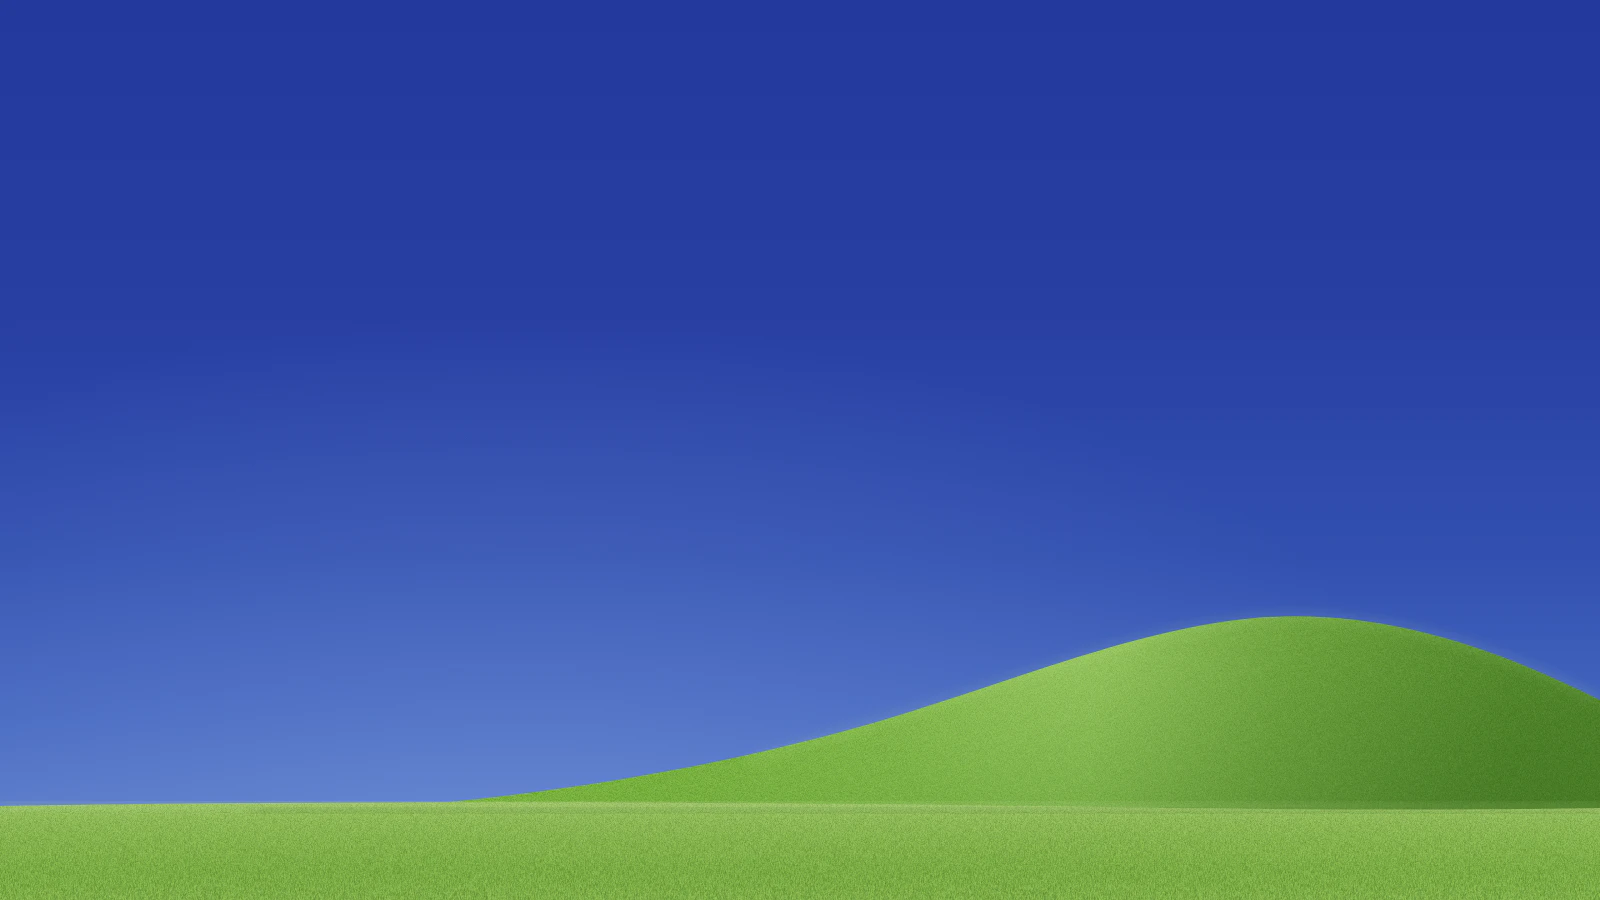
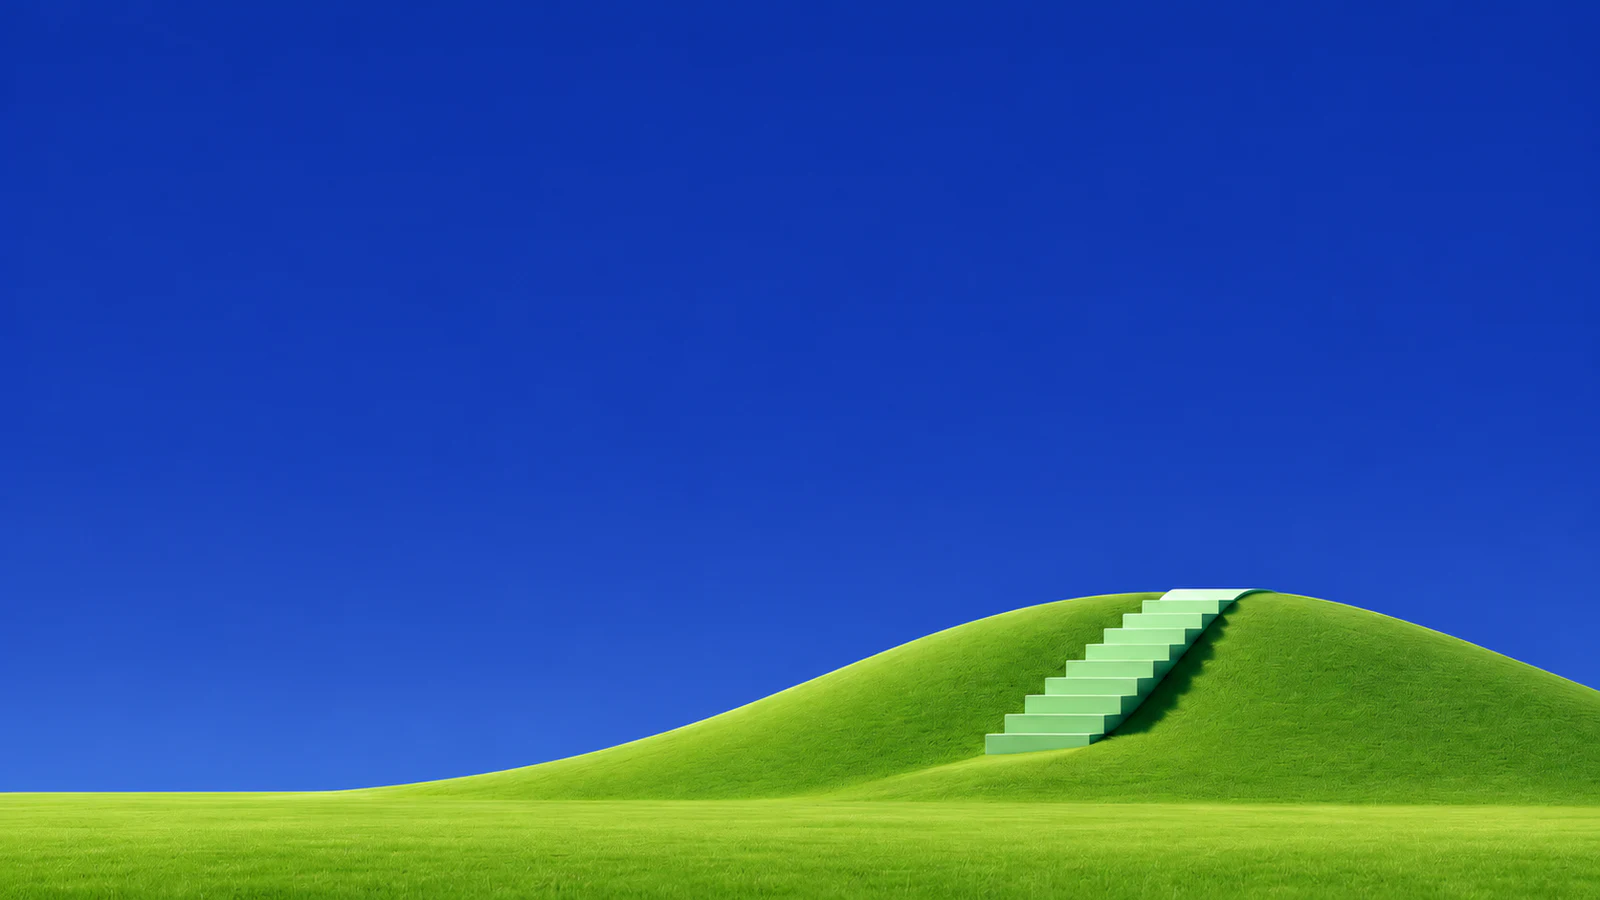
Use the provided sky and hill image as the homepage background

diff --git a/frontend/app/home.css b/frontend/app/home.css
@@ -72,7 +72,7 @@
 }
 
 /* First screen: the hero and the painting fill the window together */
-/* First screen: a clear sky over one green hill. The scene is rendered from assets/hills.svg. */
+/* First screen: a clear sky over one green hill. */
 .home-sky {
   position: relative;
   display: grid;
@@ -82,7 +82,7 @@
   max-height: 1100px;
   padding: 64px 24px 18vh;
   overflow: hidden;
-  background: #2238a0;
+  background: #0c32aa;
   color: #ffffff;
   text-align: center;
   box-sizing: border-box;
@@ -328,7 +328,7 @@
   margin-top: 160px;
   padding: 96px 24px 160px;
   overflow: hidden;
-  background: #2238a0 url('/art/hills-1600.webp') 30% 100% / cover no-repeat;
+  background: #0c32aa url('/art/hills-1600.webp') 30% 100% / cover no-repeat;
   color: #ffffff;
   text-align: center;
 }
@@ -820,7 +820,7 @@
   border-radius: 6px;
 }
 .home-show-art {
-  background-color: #2238a0;
+  background-color: #0c32aa;
   background-image: url('/art/hills-1600.webp');
   background-size: 190% auto;
   background-repeat: no-repeat;
@@ -971,7 +971,7 @@
 /* Try it now: the live inbox sits on the sky */
 .home-try-art {
   position: relative;
-  background: #2238a0 url('/art/hills-1600.webp') 85% 100% / cover no-repeat;
+  background: #0c32aa url('/art/hills-1600.webp') 85% 100% / cover no-repeat;
   display: grid;
   align-items: center;
   min-height: 420px;

diff --git a/frontend/app/page.tsx b/frontend/app/page.tsx
@@ -251,7 +251,7 @@ export default function Home() {
                 <img
                     className="home-sky-scene"
                     src="/art/hills-1600.webp"
-                    srcSet="/art/hills-1600.webp 1600w, /art/hills-3200.webp 3200w"
+                    srcSet="/art/hills-1600.webp 1600w, /art/hills-1672.webp 1672w"
                     sizes="100vw"
                     alt=""
                     width={1600}
